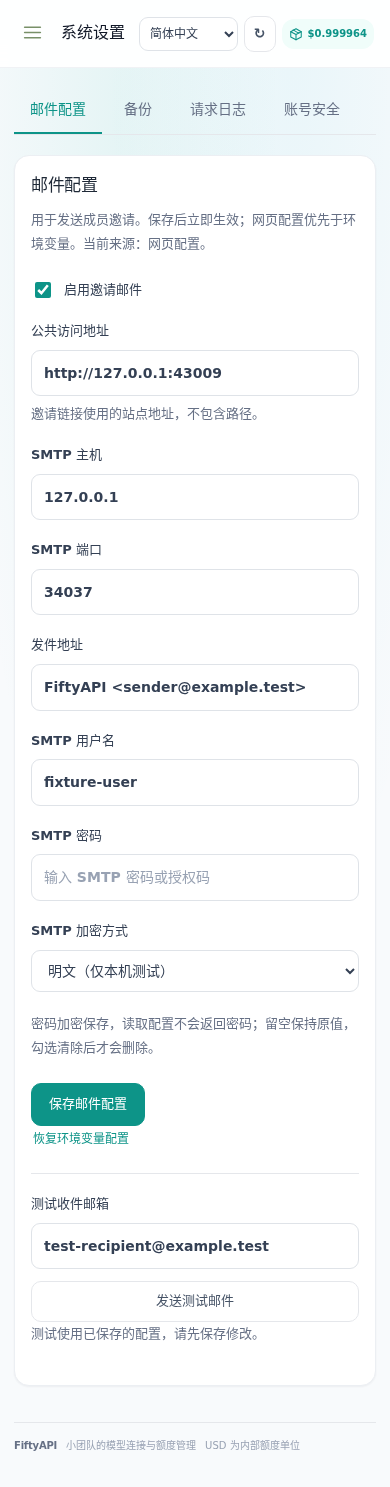
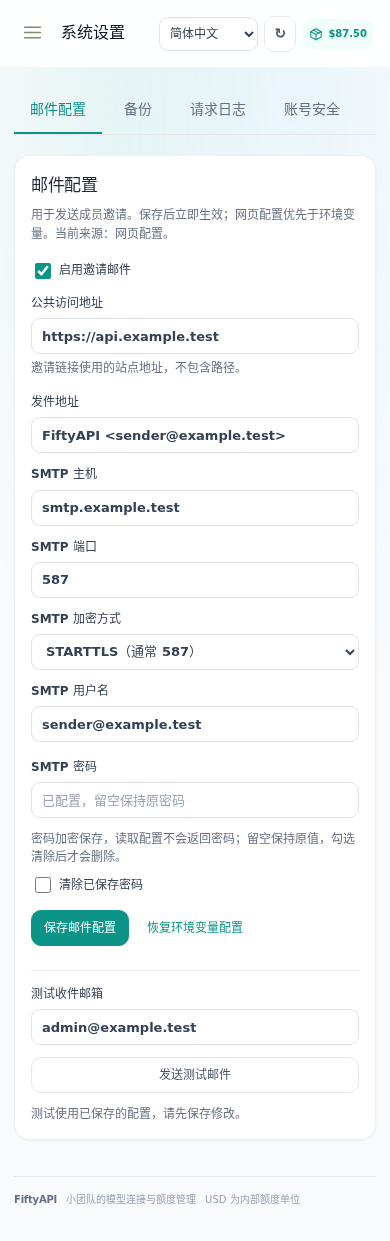
docs: refresh README screenshots and interface overview

diff --git a/README.md b/README.md
@@ -17,7 +17,22 @@ English | [简体中文](README.zh-CN.md)
 
 </div>
 
-The overview shows all eight summary cards in one row on wide desktop screens, with quick actions, the 5-hour budget, and the weekly budget together in the row below. Card spacing and chart height adapt to the desktop viewport. Open **Request logs** for individual requests.
+On wide desktop screens, the overview places summary cards in one row, with quick actions and the two budget windows below. Administrators see eight summary cards; members see seven. Open **Request logs** for individual requests.
+
+<details>
+<summary>More screenshots: upstream accounts and email settings</summary>
+
+**Upstream accounts** — a compact search bar and authorization details in a dialog keep cards concise.
+
+![Upstream accounts](docs/screenshots/upstream-accounts-en.png)
+
+**Email settings** — related fields share rows, with test email controls alongside. The desktop form fits on one screen; mobile uses a single column.
+
+![Email settings](docs/screenshots/email-settings-en.png)
+
+</details>
+
+Screenshots show the current interface with simulated data.
 
 For automatic prices, native Antigravity, user access limits, and centralized client defaults, see [low-maintenance sharing](docs/en/low-maintenance.md).
 

diff --git a/README.zh-CN.md b/README.zh-CN.md
@@ -17,7 +17,22 @@
 
 </div>
 
-宽屏桌面仪表盘顶部的 8 项统计合为一行，下方将快捷操作、5 小时额度和每周额度并排显示，卡片间距和图表高度随桌面窗口调整；单条请求记录请从左侧 **请求日志** 进入。
+宽屏桌面仪表盘将统计卡片排列为一行，下方并排显示快捷操作、5 小时额度和每周额度。管理员显示 8 张统计卡片，成员显示 7 张；单条请求记录请从左侧 **请求日志** 进入。
+
+<details>
+<summary>更多截图：上游账号与邮件配置</summary>
+
+**上游账号**：顶部采用紧凑搜索栏，授权详情在弹窗中查看，节省卡片空间。
+
+![上游账号](docs/screenshots/upstream-accounts.png)
+
+**邮件配置**：相关字段并排，测试邮件放在右侧，桌面可一屏显示；手机自动改为单列。
+
+![邮件配置](docs/screenshots/email-settings.png)
+
+</details>
+
+截图使用当前界面和模拟数据。
 
 自动价格、原生 Antigravity、用户访问限制和集中版本设置见 [低维护账号共享](docs/low-maintenance.md)。
 
